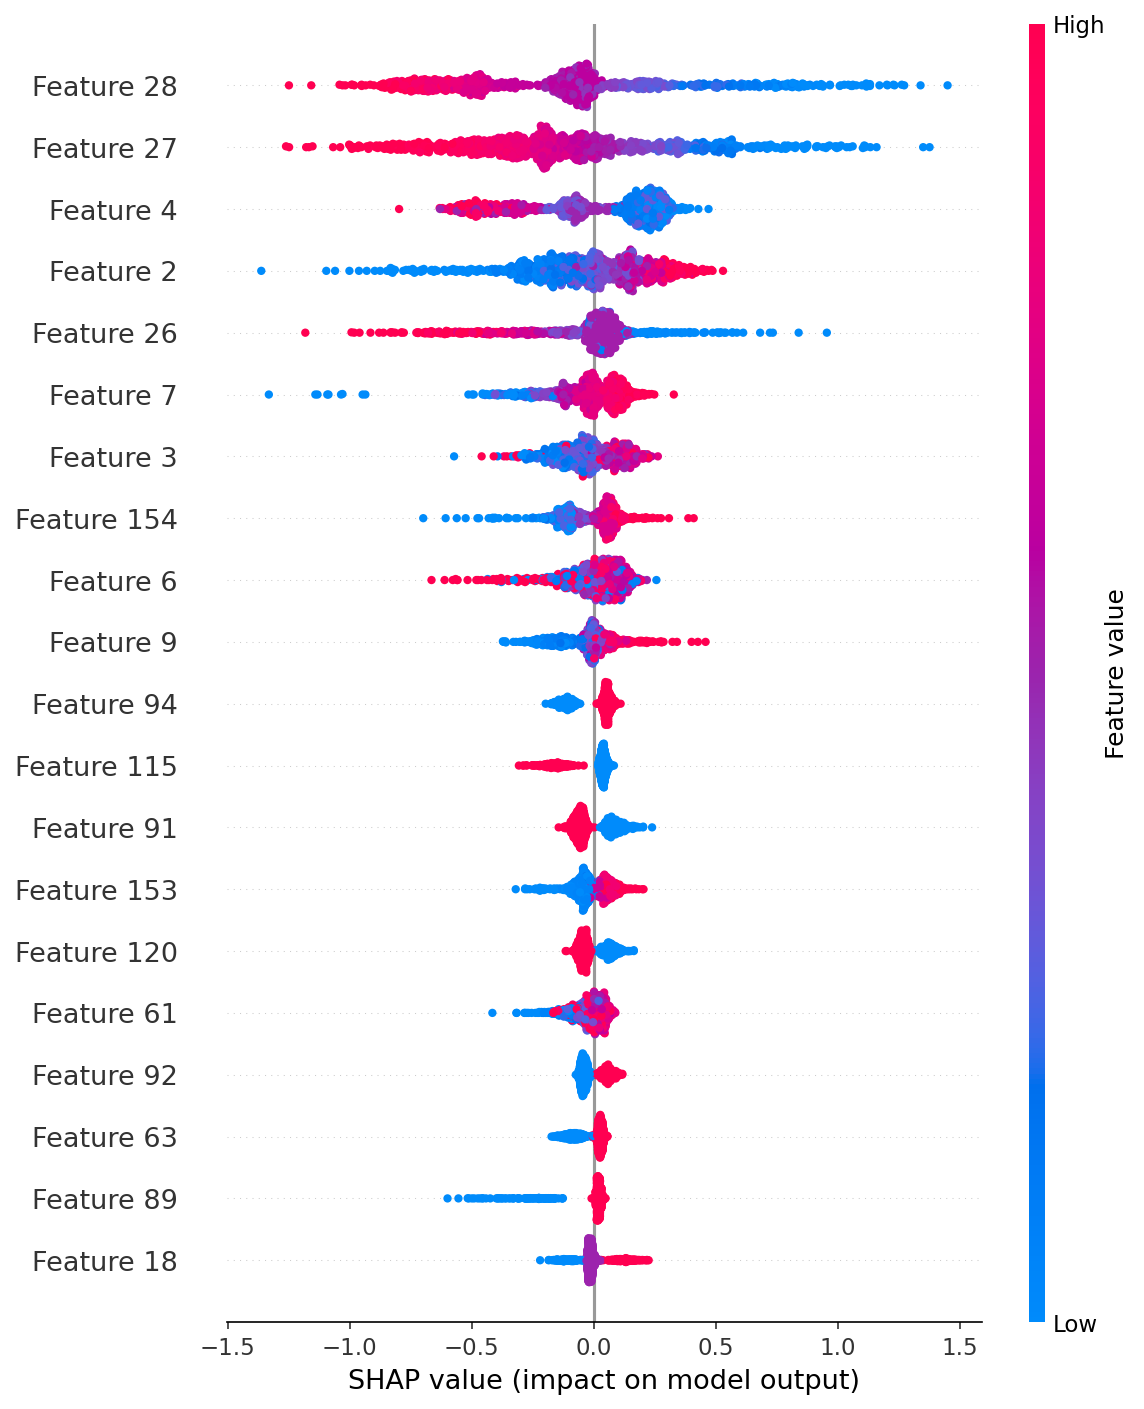
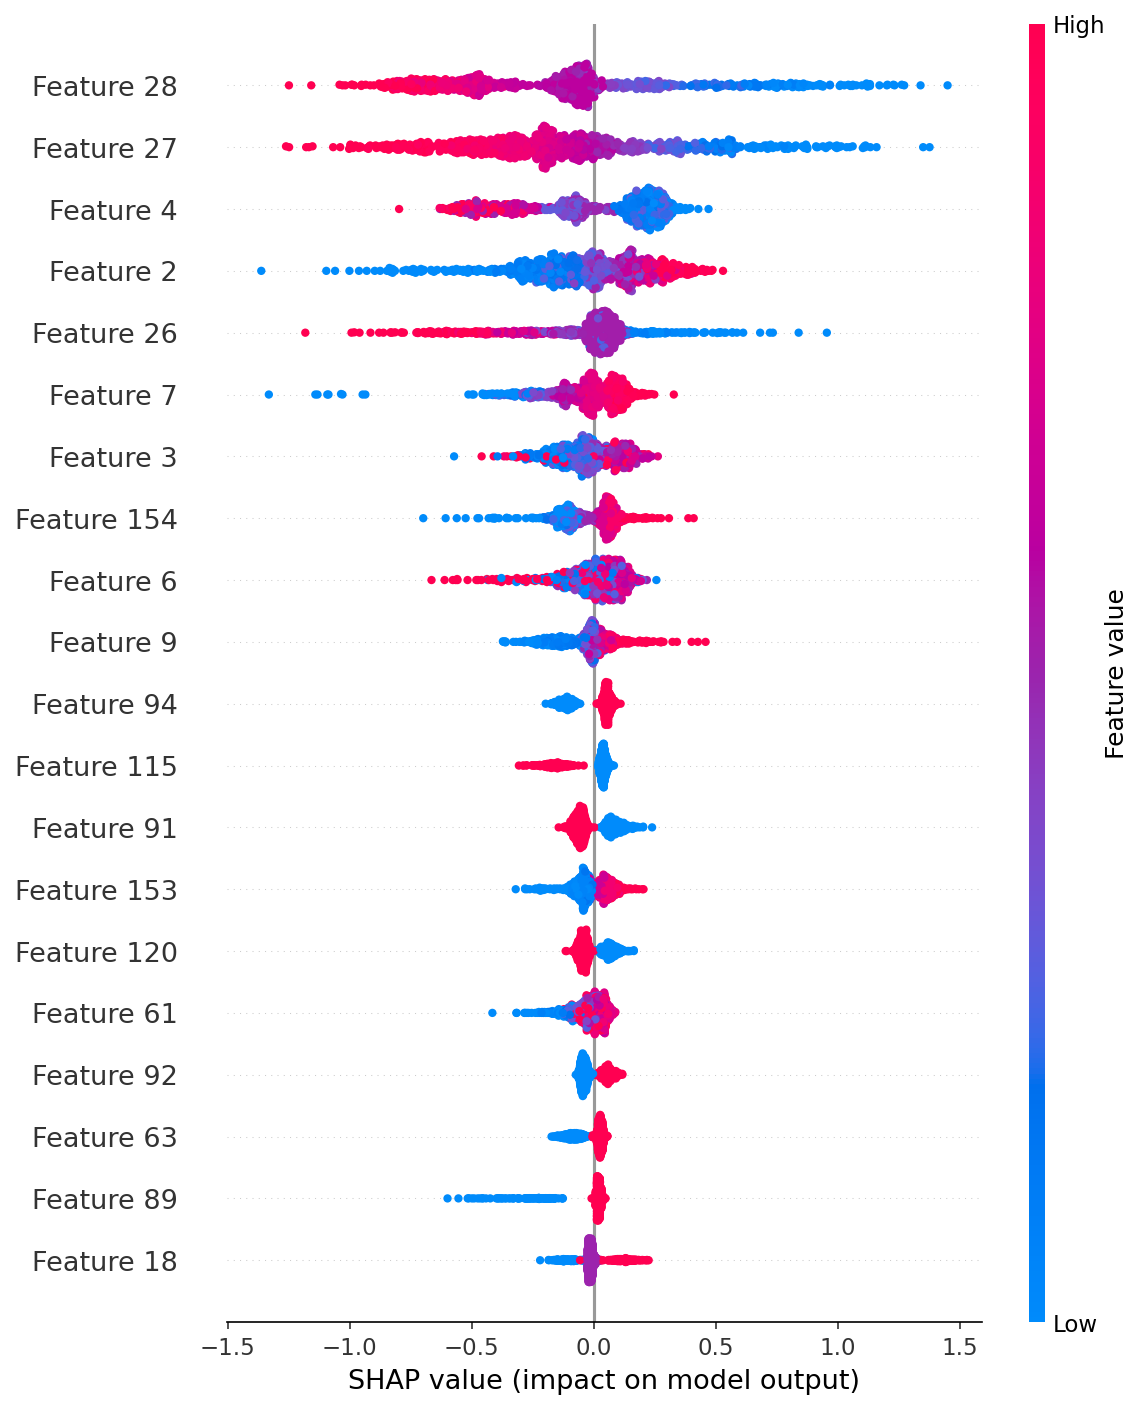
feat(model): XGBoost with SHAP explainability, AUC 0.76

diff --git a/src/loan_mlops/logging_setup.py b/src/loan_mlops/logging_setup.py
@@ -1,8 +1,7 @@
-"""Structured JSON logging setup for production-grade observability.
+"""Structured logging with correlation IDs.
 
-JSON logs are machine-parsable by log aggregators (Datadog, CloudWatch, Splunk).
-Includes correlation IDs so requests can be traced across services.
-"""
+Human-readable in dev, JSON in production. Both formats surface extra fields
+passed via logger.info(..., extra={...}) — that's the bit production needs."""
 
 from __future__ import annotations
 
@@ -14,20 +13,29 @@ from contextvars import ContextVar
 from datetime import UTC, datetime
 from typing import Any
 
-# Correlation ID for tracing a single request/run through the system
 correlation_id_var: ContextVar[str] = ContextVar("correlation_id", default="")
+
+# Standard LogRecord attributes — anything else in record.__dict__ is user-supplied extras
+_STANDARD_FIELDS = frozenset({
+    "name", "msg", "args", "levelname", "levelno", "pathname", "filename",
+    "module", "exc_info", "exc_text", "stack_info", "lineno", "funcName",
+    "created", "msecs", "relativeCreated", "thread", "threadName",
+    "processName", "process", "message", "asctime", "taskName",
+    "getMessage",
+})
 
 
 def set_correlation_id(cid: str | None = None) -> str:
-    """Set a correlation ID for the current context. Generates one if not provided."""
     cid = cid or str(uuid.uuid4())
     correlation_id_var.set(cid)
     return cid
 
 
-class JsonFormatter(logging.Formatter):
-    """Format logs as JSON for ingestion by log aggregators."""
+def _extract_extras(record: logging.LogRecord) -> dict[str, Any]:
+    return {k: v for k, v in record.__dict__.items() if k not in _STANDARD_FIELDS}
 
+
+class JsonFormatter(logging.Formatter):
     def format(self, record: logging.LogRecord) -> str:
         log_obj: dict[str, Any] = {
             "timestamp": datetime.now(UTC).isoformat(),
@@ -36,56 +44,33 @@ class JsonFormatter(logging.Formatter):
             "message": record.getMessage(),
             "correlation_id": correlation_id_var.get(),
         }
-        # Include exception info if present
         if record.exc_info:
             log_obj["exception"] = self.formatException(record.exc_info)
-        # Include any extra fields passed via logger.info(..., extra={...})
-        for key, value in record.__dict__.items():
-            if key not in {
-                "name",
-                "msg",
-                "args",
-                "created",
-                "filename",
-                "funcName",
-                "levelname",
-                "levelno",
-                "lineno",
-                "module",
-                "msecs",
-                "pathname",
-                "process",
-                "processName",
-                "relativeCreated",
-                "thread",
-                "threadName",
-                "exc_info",
-                "exc_text",
-                "stack_info",
-                "getMessage",
-                "taskName",
-            }:
-                log_obj[key] = value
+        log_obj.update(_extract_extras(record))
         return json.dumps(log_obj)
 
 
-def setup_logging(level: str = "INFO", json_format: bool = False) -> None:
-    """Configure root logger.
+class HumanFormatter(logging.Formatter):
+    """Standard format plus inline 'key=value' pairs for any extras."""
 
-    Args:
-        level: Log level (DEBUG, INFO, WARNING, ERROR).
-        json_format: If True, output JSON. If False, human-readable (use in local dev).
-    """
+    def format(self, record: logging.LogRecord) -> str:
+        base = super().format(record)
+        extras = _extract_extras(record)
+        if not extras:
+            return base
+        kv = " | ".join(f"{k}={v}" for k, v in extras.items())
+        return f"{base} | {kv}"
+
+
+def setup_logging(level: str = "INFO", json_format: bool = False) -> None:
     handler = logging.StreamHandler(sys.stdout)
     if json_format:
         handler.setFormatter(JsonFormatter())
     else:
-        handler.setFormatter(
-            logging.Formatter(
-                fmt="%(asctime)s | %(levelname)-7s | %(name)s | %(message)s",
-                datefmt="%H:%M:%S",
-            )
-        )
+        handler.setFormatter(HumanFormatter(
+            fmt="%(asctime)s | %(levelname)-7s | %(name)s | %(message)s",
+            datefmt="%H:%M:%S",
+        ))
 
     root = logging.getLogger()
     root.handlers.clear()

diff --git a/src/loan_mlops/train.py b/src/loan_mlops/train.py
@@ -10,7 +10,7 @@ from __future__ import annotations
 
 import logging
 from pathlib import Path
-from loan_mlops.model import build_pipeline, cross_validate, evaluate, save_model
+
 import hydra
 from omegaconf import DictConfig, OmegaConf
 from sklearn.model_selection import train_test_split
@@ -18,8 +18,7 @@ from sklearn.model_selection import train_test_split
 from loan_mlops.data import load_clean
 from loan_mlops.features import split_xy
 from loan_mlops.logging_setup import set_correlation_id, setup_logging
-from loan_mlops.model import build_baseline_pipeline, build_pipeline, cross_validate, evaluate, save_model
-
+from loan_mlops.model import build_pipeline, cross_validate, evaluate, save_model
 
 @hydra.main(version_base="1.3", config_path="../../conf", config_name="config")
 def main(cfg: DictConfig) -> None: